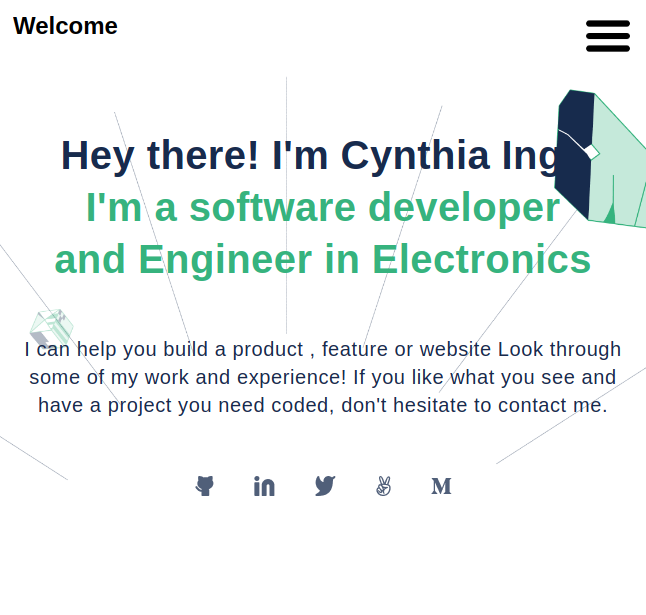
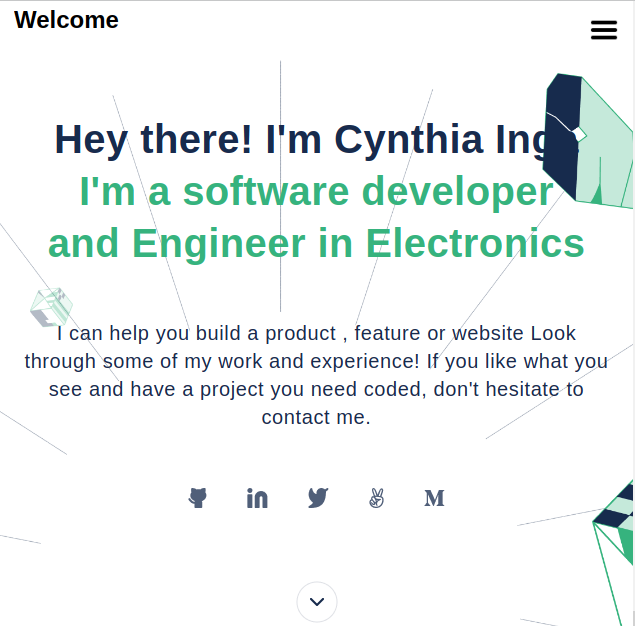
Update index.htm and style.css file

diff --git a/CSS/style.css b/CSS/style.css
@@ -118,8 +118,8 @@ nav .nav-menu.hide .nav-link a {
 }
 
 nav .show-menu-btn {
-  width: 50px;
-  height: 50px;
+  width: 30px;
+  height: 30px;
   font-weight: var(--weight);
 }
 
@@ -196,6 +196,10 @@ ul {
 
 .social-media-icons li a img:hover {
   transform: scale(1.4);
+}
+
+.scroll-down-icon {
+  margin: 64px 0 22px;
 }
 
 @media screen and (min-width: 600px) {
@@ -280,5 +284,9 @@ ul {
 
   .social-media-icons li a img {
     padding: 0 20px;
+  }
+
+  .scroll-down-icon {
+    margin: 64px 0 245px;
   }
 }

diff --git a/index.html b/index.html
@@ -58,6 +58,10 @@
               </li>
             </ul>
           </div>
+          <div class="scroll-down-icon">
+            <a href="#">
+              <img src="./image/icons/croll.png" class="fa" alt="scroll-down" />
+            </a>
         </section>
       </main>
     </body>
